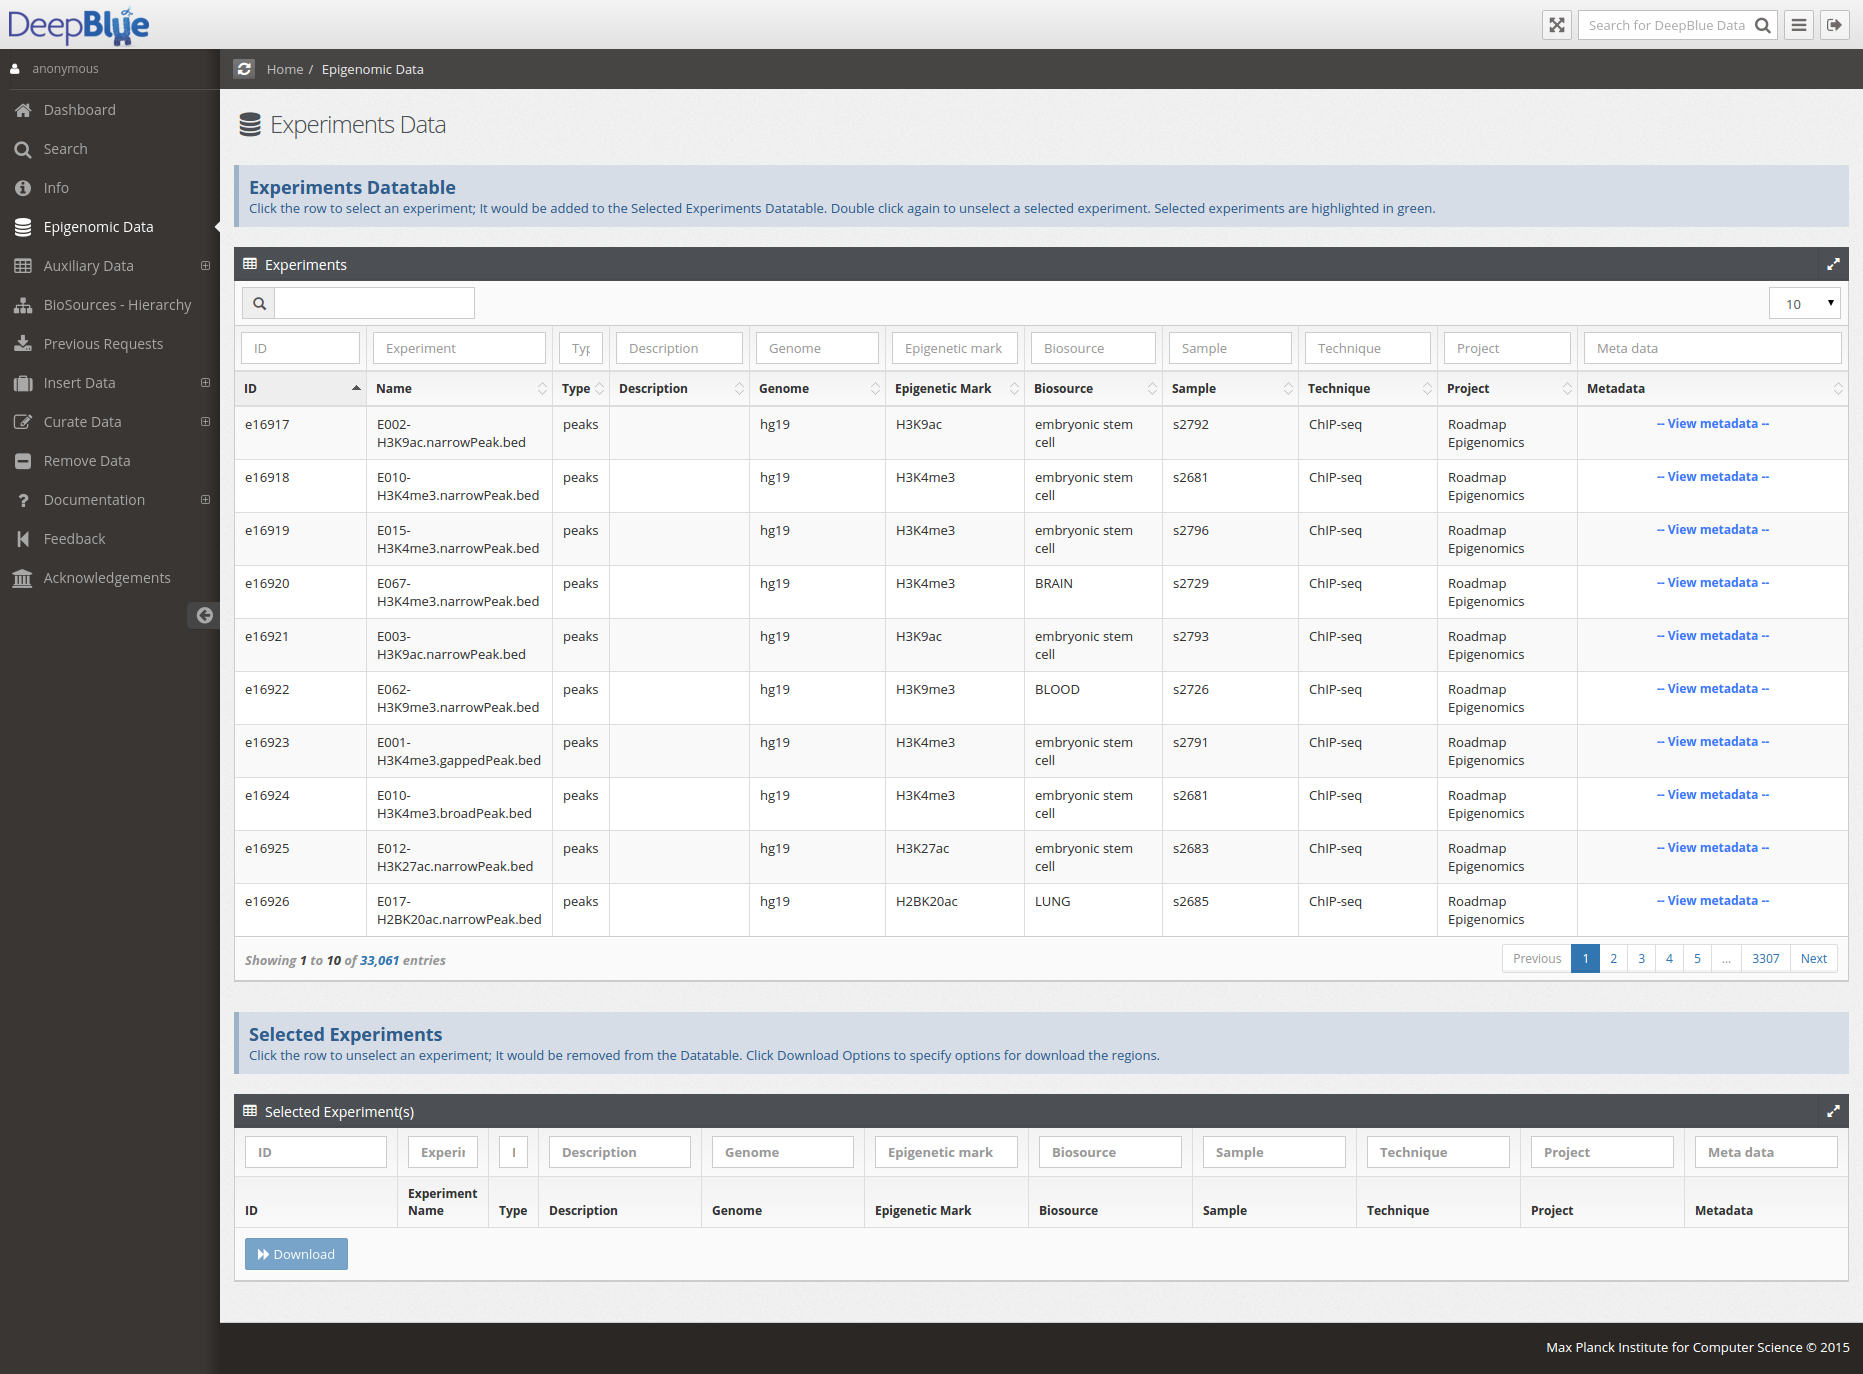
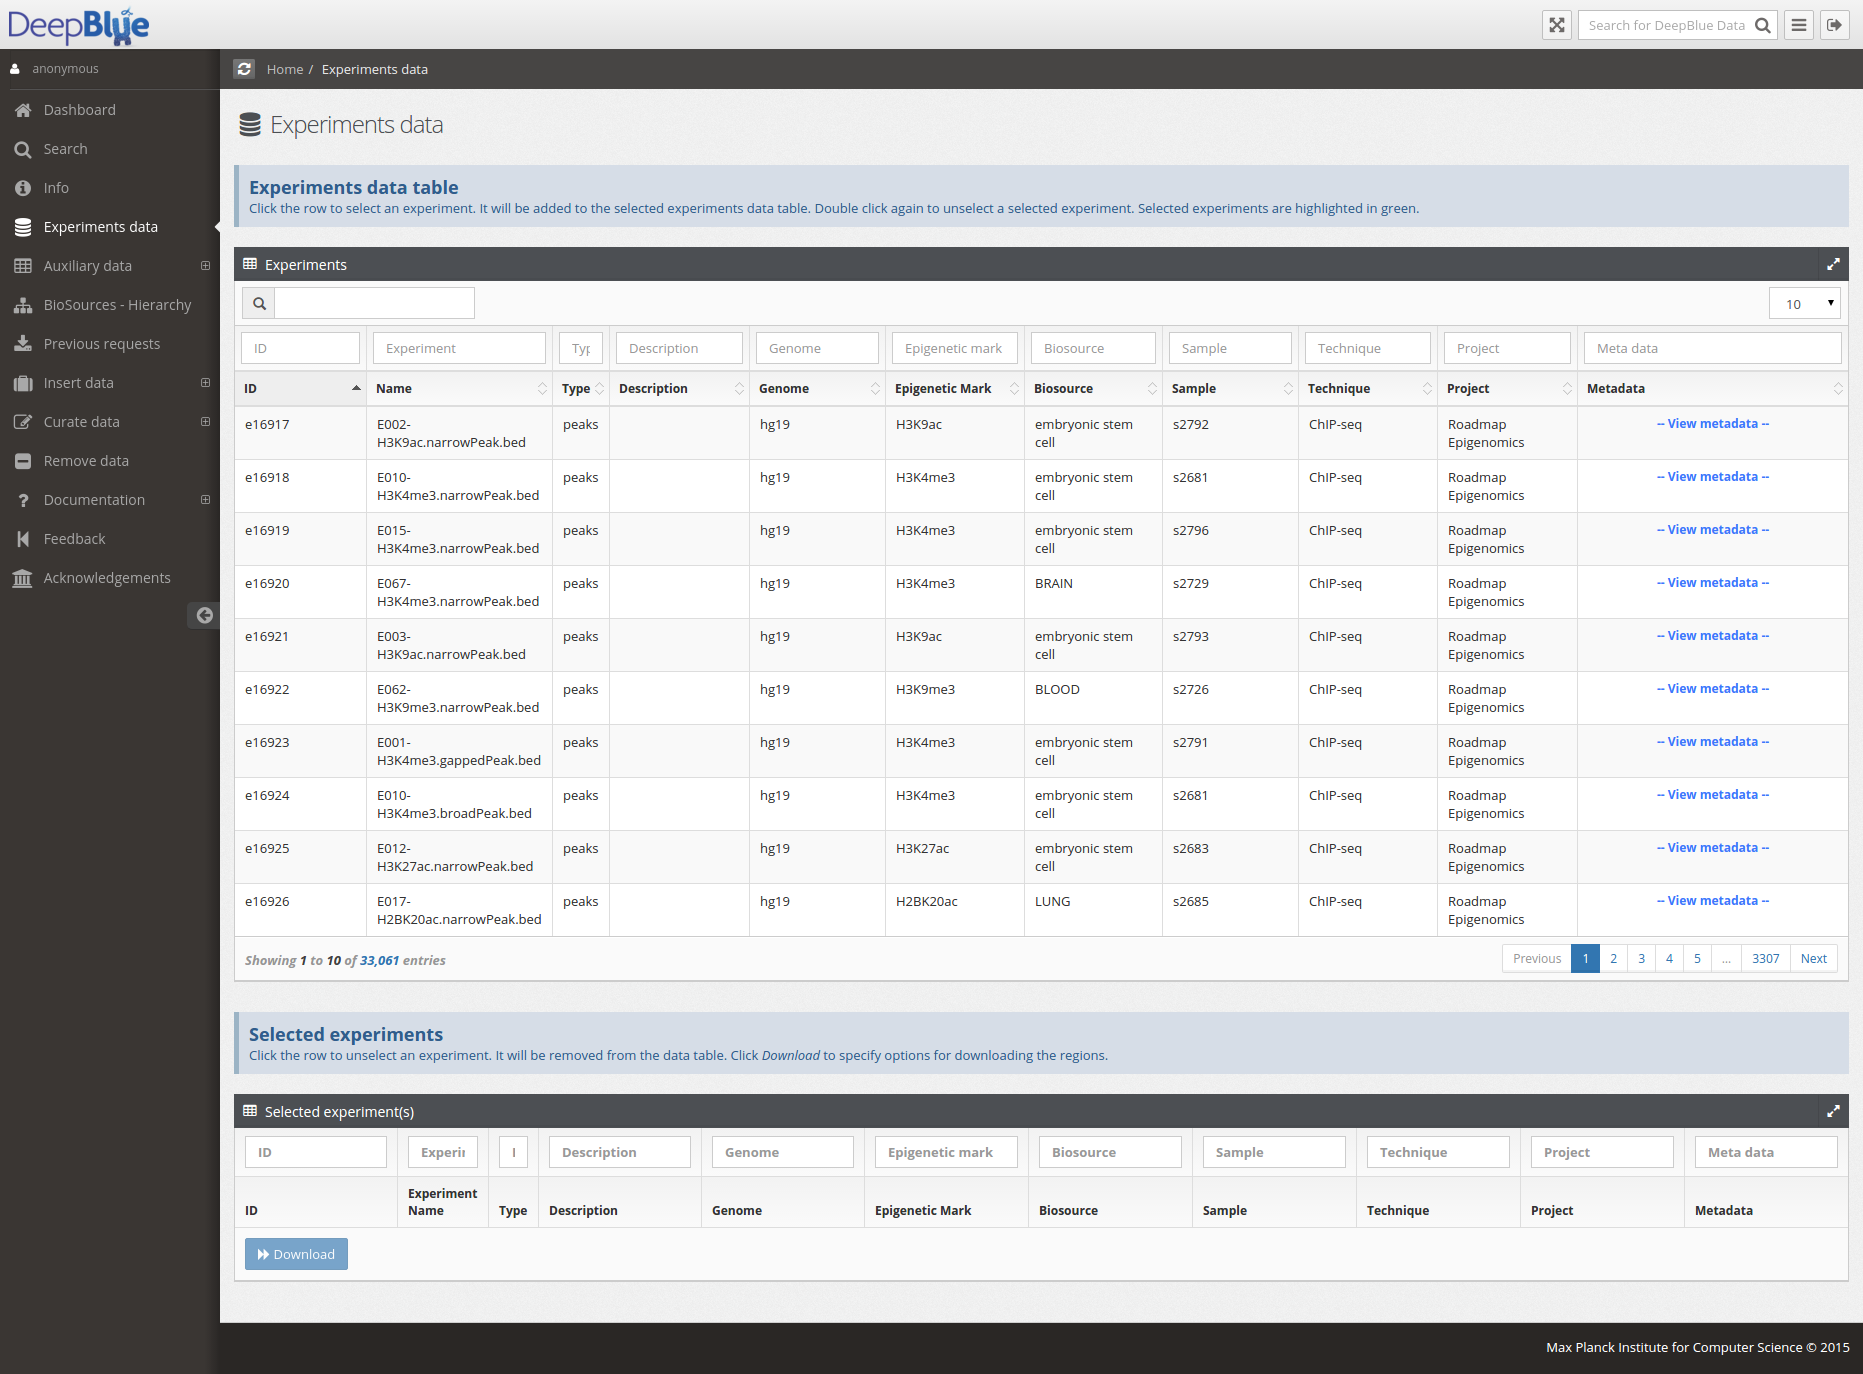
web example - experiments listing

diff --git a/template/web_examples.php b/template/web_examples.php
@@ -69,7 +69,7 @@ include("inc/header.php");
                 <hr>
                 <dt>
                     <h5>Listing experiments</h5>
-                    <p>You can list all epigenomic experiments under <i>Epigenetic data</i>.</p>
+                    <p>You can list all epigenomic experiments under <i>Experiments data</i>.</p>
                     <p>The data tables provide full filtering and ordering.</p>
                 </dt>
                 <dd>
